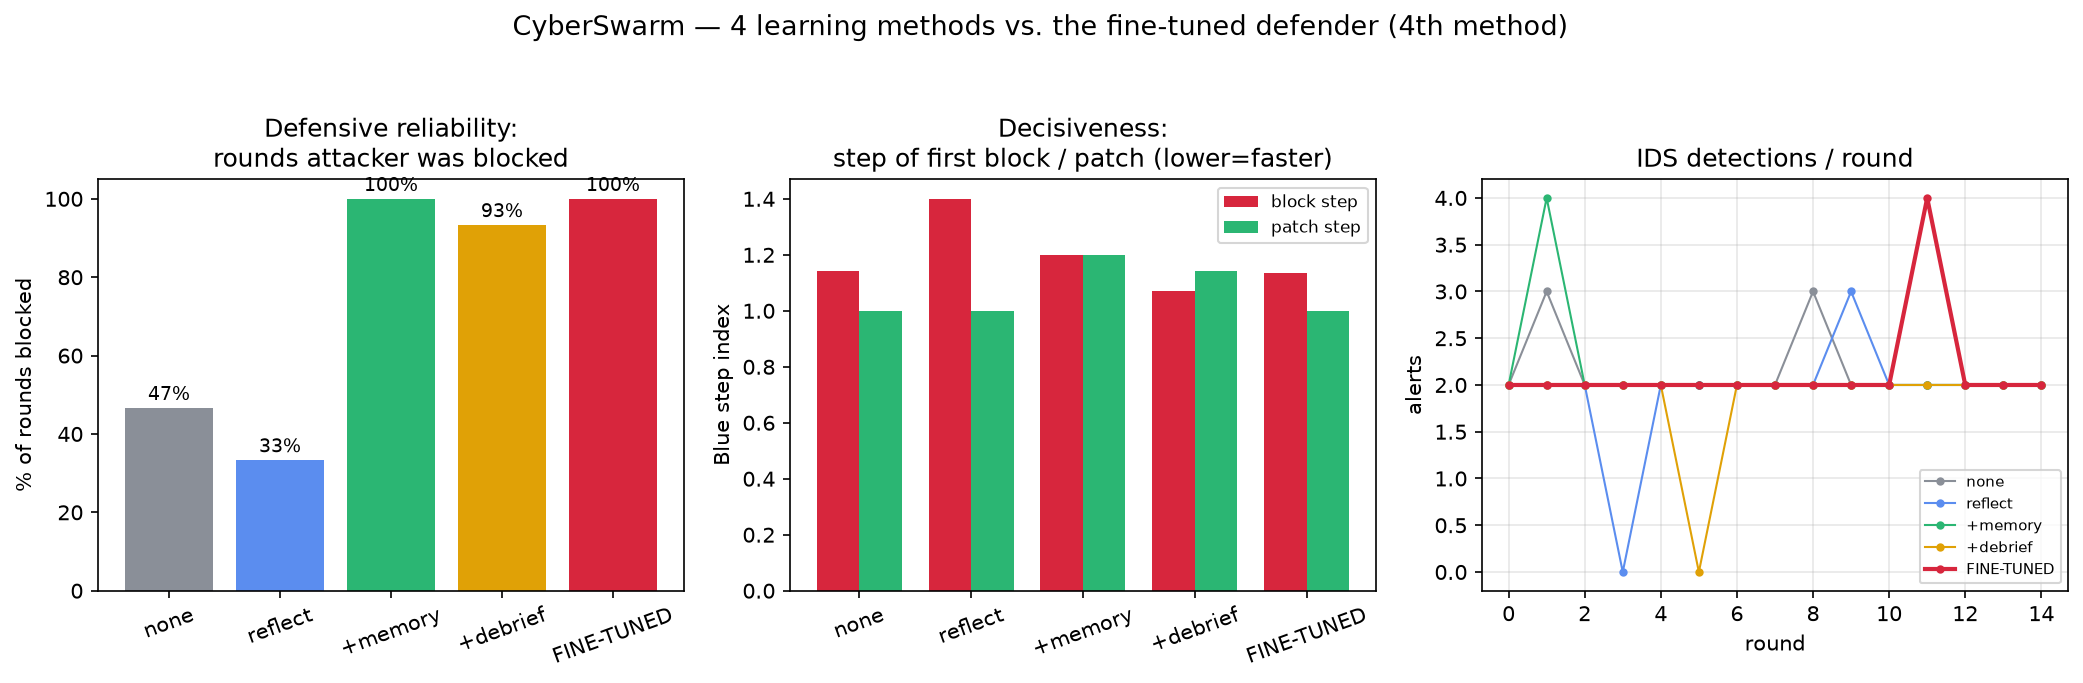
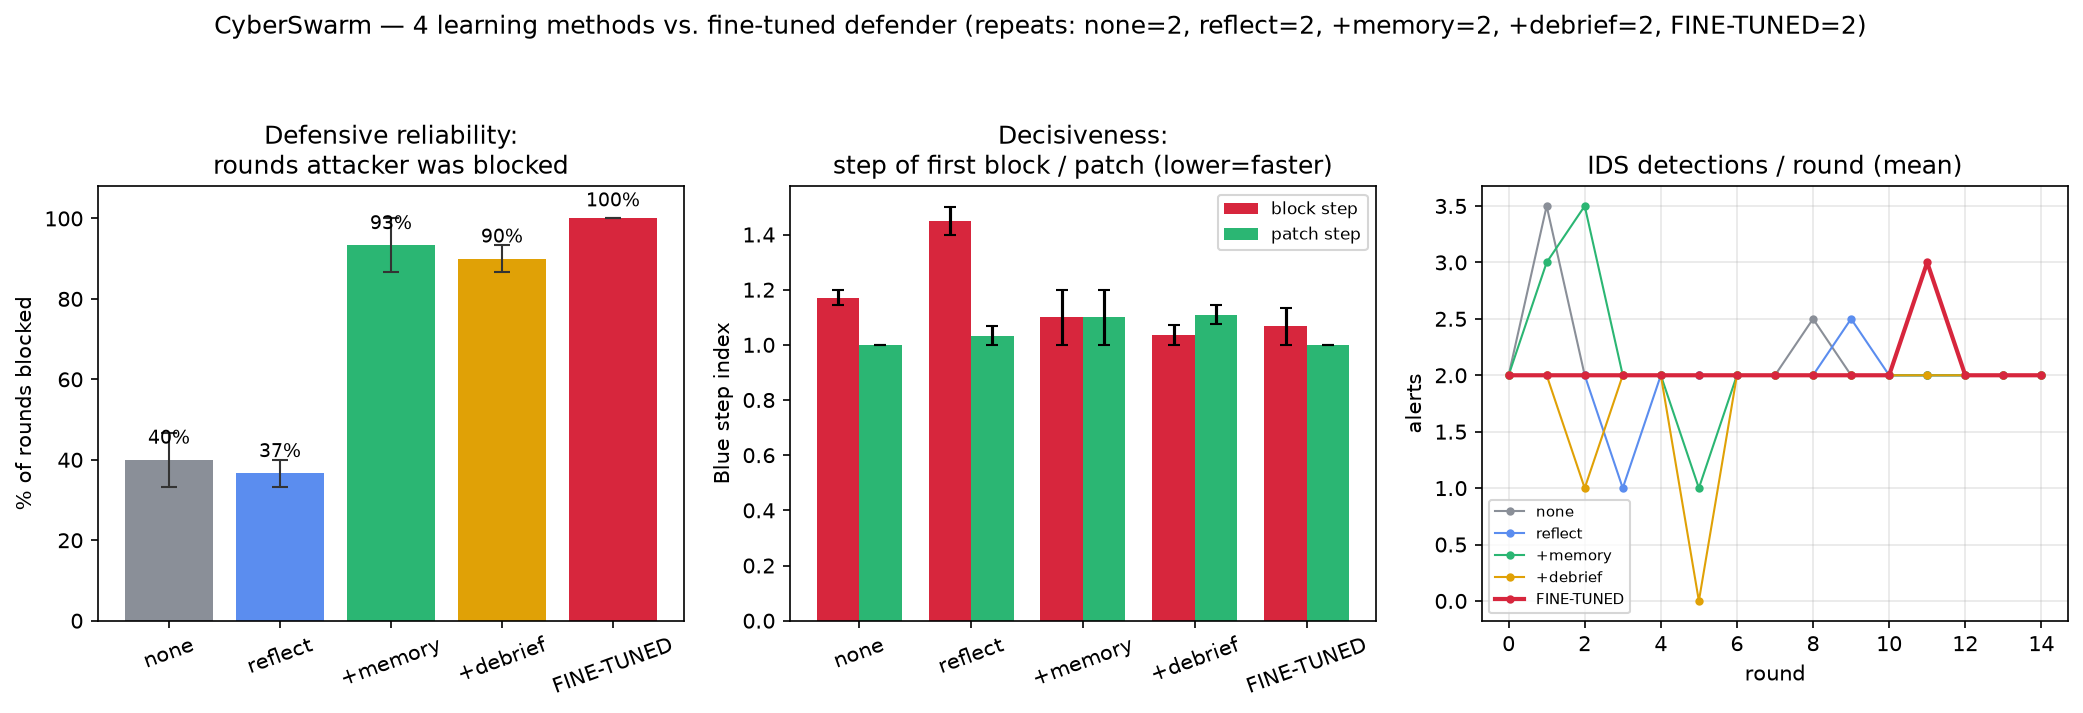
Add second repeat (n=2): fine-tuned defender is the most reliable
- Re-ran all 5 methods a 2nd time (15 rounds each) for error bars.
- Fine-tuned defender blocks 100% of rounds in BOTH repeats (zero variance);
  prompt methods wobble (+memory 100->87%, +debrief 93->87%), baselines 37-40%.
- ft_comparison.py now aggregates repeats with range error bars.
- RESULTS.md table + takeaways updated to the n=2 numbers (150 rounds total,
  still zero false positives).

diff --git a/analysis/ft_comparison.py b/analysis/ft_comparison.py
@@ -1,24 +1,27 @@
 """ft_comparison.py — the headline figure + table for the report.
 
 Compares the 4 prompt-based learning methods against the 4th method (QLoRA
-fine-tuning). The coarse IDS-alert scores saturate (single-vuln ceiling), so the
-discriminating metric is DEFENSIVE COMPETENCE: in how many rounds did Blue actually
-block the attacker, and how decisively (which step it blocked / patched on).
+fine-tuning), aggregating over all repeats found (<method>_r1, _r2, ...).
 
-    python ft_comparison.py            # reads ../runs/<method>_r1
+    python ft_comparison.py
 
-Finding: fine-tuning reaches top-tier block reliability (100%) with NO runtime
+The coarse IDS-alert scores saturate (single-vuln ceiling), so the discriminating
+metric is DEFENSIVE COMPETENCE: in how many rounds did Blue actually block the
+attacker, and how decisively (which step it blocked / patched on). Error bars span
+the repeats.
+
+Finding: fine-tuning reaches top-tier block reliability with NO runtime
 reflection/memory/debrief — the defensive policy is internalised in the weights.
 """
 import json, glob, os
+import numpy as np
 import matplotlib
 matplotlib.use("Agg")
 import matplotlib.pyplot as plt
 
-ORDER = ["no_learning_r1", "reflect_r1", "reflect_mem_r1", "baseline_r1", "ft_r1"]
-LABEL = {"no_learning_r1": "none", "reflect_r1": "reflect",
-         "reflect_mem_r1": "+memory", "baseline_r1": "+debrief",
-         "ft_r1": "FINE-TUNED"}
+METHODS = [("no_learning", "none"), ("reflect", "reflect"),
+           ("reflect_mem", "+memory"), ("baseline", "+debrief"),
+           ("ft", "FINE-TUNED")]
 COLOR = {"none": "#8a8f98", "reflect": "#5b8def", "+memory": "#2bb673",
          "+debrief": "#e0a106", "FINE-TUNED": "#d7263d"}
 
@@ -35,81 +38,103 @@ def first_step(msgs, tool):
     return None
 
 
-def collect(run):
-    rounds = sorted(glob.glob(f"../runs/{run}/round_*/scores.json"))
-    det, solved, blue, red, legit = [], [], [], [], 0
-    for p in rounds:
-        x = json.load(open(p))
-        det.append(x["detections"]); solved.append(x["challenges_solved_round"])
-        blue.append(x["blue_score"]); red.append(x["red_score"])
-        legit += x["legit_blocked"]
-    blocked = 0; bsteps = []; psteps = []; calls = []
-    for p in sorted(glob.glob(f"../runs/{run}/round_*/blue_messages.json")):
+def run_stats(run_dir):
+    """Per-repeat stats for one runs/<method>_rN dir."""
+    rounds = sorted(glob.glob(f"{run_dir}/round_*/scores.json"))
+    if not rounds:
+        return None
+    det = [json.load(open(p))["detections"] for p in rounds]
+    blocked = 0; bsteps = []; psteps = []
+    for p in sorted(glob.glob(f"{run_dir}/round_*/blue_messages.json")):
         msgs = json.load(open(p, encoding="utf-8"))
-        calls.append(sum(len(m.get("tool_calls") or []) for m in msgs
-                         if m.get("role") == "assistant"))
         b = first_step(msgs, "block_ip"); pt = first_step(msgs, "patch_sqli")
         if b is not None:
             blocked += 1; bsteps.append(b)
         if pt is not None:
             psteps.append(pt)
-    n = len(rounds) or 1
-    mean = lambda xs: sum(xs) / len(xs) if xs else 0.0
-    return dict(n=n, det=det, solved=solved, mean_blue=mean(blue), mean_red=mean(red),
-                legit=legit, blocked=blocked, block_rate=100.0 * blocked / n,
+    n = len(rounds)
+    mean = lambda xs: float(np.mean(xs)) if xs else float("nan")
+    return dict(n=n, det=det, block_rate=100.0 * blocked / n,
                 avg_block_step=mean(bsteps), avg_patch_step=mean(psteps),
-                avg_calls=mean(calls))
+                mean_det=mean(det))
+
+
+def agg(cfg):
+    reps = [run_stats(d) for d in sorted(glob.glob(f"../runs/{cfg}_r*"))]
+    reps = [r for r in reps if r]
+    return reps
+
+
+def ms(vals):
+    vals = [v for v in vals if v == v]  # drop nan
+    a = np.array(vals, float)
+    return (float(a.mean()), float(a.max() - a.mean()), float(a.mean() - a.min())) if len(a) else (0, 0, 0)
 
 
 def main():
-    data = {LABEL[r]: collect(r) for r in ORDER if os.path.isdir(f"../runs/{r}")}
-    names = [LABEL[r] for r in ORDER if LABEL[r] in data]
+    data = {}
+    for cfg, lbl in METHODS:
+        reps = agg(cfg)
+        if reps:
+            data[lbl] = reps
+    names = [lbl for _, lbl in METHODS if lbl in data]
     cols = [COLOR[n] for n in names]
+    nrep = {n: len(data[n]) for n in names}
 
-    fig = plt.figure(figsize=(14, 4.6))
-    # Panel 1: block reliability (the headline)
+    fig = plt.figure(figsize=(14, 4.8))
+    x = np.arange(len(names))
+
+    # Panel 1: block reliability (headline) with range bars
     ax1 = fig.add_subplot(1, 3, 1)
-    rates = [data[n]["block_rate"] for n in names]
-    ax1.bar(names, rates, color=cols)
+    br = [ms([r["block_rate"] for r in data[n]]) for n in names]
+    means = [b[0] for b in br]
+    yerr = [[b[2] for b in br], [b[1] for b in br]]
+    ax1.bar(x, means, color=cols, yerr=yerr, capsize=4, error_kw=dict(ecolor="#333", lw=1))
     ax1.set_title("Defensive reliability:\nrounds attacker was blocked")
-    ax1.set_ylabel("% of rounds blocked"); ax1.set_ylim(0, 105)
-    for i, v in enumerate(rates):
-        ax1.text(i, v + 2, f"{v:.0f}%", ha="center", fontsize=9)
-    ax1.tick_params(axis="x", rotation=20)
+    ax1.set_ylabel("% of rounds blocked"); ax1.set_ylim(0, 108)
+    for i, v in enumerate(means):
+        ax1.text(i, min(v + 4, 103), f"{v:.0f}%", ha="center", fontsize=9)
+    ax1.set_xticks(x); ax1.set_xticklabels(names, rotation=20)
 
-    # Panel 2: decisiveness (lower = faster)
+    # Panel 2: decisiveness
     ax2 = fig.add_subplot(1, 3, 2)
-    import numpy as np
-    x = np.arange(len(names)); w = 0.38
-    ax2.bar(x - w / 2, [data[n]["avg_block_step"] for n in names], w, label="block step", color="#d7263d")
-    ax2.bar(x + w / 2, [data[n]["avg_patch_step"] for n in names], w, label="patch step", color="#2bb673")
+    w = 0.38
+    blk = [ms([r["avg_block_step"] for r in data[n]]) for n in names]
+    pat = [ms([r["avg_patch_step"] for r in data[n]]) for n in names]
+    ax2.bar(x - w / 2, [b[0] for b in blk], w, yerr=[[b[2] for b in blk], [b[1] for b in blk]],
+            capsize=3, label="block step", color="#d7263d")
+    ax2.bar(x + w / 2, [p[0] for p in pat], w, yerr=[[p[2] for p in pat], [p[1] for p in pat]],
+            capsize=3, label="patch step", color="#2bb673")
     ax2.set_title("Decisiveness:\nstep of first block / patch (lower=faster)")
     ax2.set_ylabel("Blue step index"); ax2.set_xticks(x); ax2.set_xticklabels(names, rotation=20)
     ax2.legend(fontsize=8)
 
-    # Panel 3: per-round detections curve
+    # Panel 3: per-round detections (mean across repeats)
     ax3 = fig.add_subplot(1, 3, 3)
     for n in names:
-        ax3.plot(range(len(data[n]["det"])), data[n]["det"], marker="o", ms=3,
-                 label=n, color=COLOR[n], lw=2 if n == "FINE-TUNED" else 1)
-    ax3.set_title("IDS detections / round"); ax3.set_xlabel("round")
+        mats = np.array([r["det"] for r in data[n]])
+        ax3.plot(range(mats.shape[1]), mats.mean(0), marker="o", ms=3, label=n,
+                 color=COLOR[n], lw=2 if n == "FINE-TUNED" else 1)
+    ax3.set_title("IDS detections / round (mean)"); ax3.set_xlabel("round")
     ax3.set_ylabel("alerts"); ax3.legend(fontsize=7); ax3.grid(True, alpha=0.3)
 
-    fig.suptitle("CyberSwarm — 4 learning methods vs. the fine-tuned defender (4th method)",
-                 fontsize=13)
-    fig.tight_layout(rect=[0, 0, 1, 0.94])
+    reps_note = ", ".join(f"{n}={nrep[n]}" for n in names)
+    fig.suptitle(f"CyberSwarm — 4 learning methods vs. fine-tuned defender (repeats: {reps_note})",
+                 fontsize=12)
+    fig.tight_layout(rect=[0, 0, 1, 0.93])
     out = "ft_comparison.png"
     fig.savefig(out, dpi=150, bbox_inches="tight")
     print(f"wrote {out}\n")
 
-    # Table
-    hdr = f"{'method':<12}{'block%':>8}{'blocked':>9}{'blk_step':>9}{'patch_step':>11}{'mean_det':>9}{'mean_blue':>10}{'legit_blk':>10}"
+    hdr = f"{'method':<12}{'repeats':>8}{'block% (mean)':>15}{'block_step':>12}{'patch_step':>12}{'mean_det':>10}"
     print(hdr); print("-" * len(hdr))
     for n in names:
-        d = data[n]
-        print(f"{n:<12}{d['block_rate']:>7.0f}%{str(d['blocked'])+'/'+str(d['n']):>9}"
-              f"{d['avg_block_step']:>9.2f}{d['avg_patch_step']:>11.2f}"
-              f"{sum(d['det'])/d['n']:>9.2f}{d['mean_blue']:>10.2f}{d['legit']:>10}")
+        br_m = ms([r["block_rate"] for r in data[n]])[0]
+        bs_m = ms([r["avg_block_step"] for r in data[n]])[0]
+        ps_m = ms([r["avg_patch_step"] for r in data[n]])[0]
+        dt_m = ms([r["mean_det"] for r in data[n]])[0]
+        rates = "/".join(f"{r['block_rate']:.0f}" for r in data[n])
+        print(f"{n:<12}{nrep[n]:>8}{br_m:>10.0f}% ({rates}){bs_m:>12.2f}{ps_m:>12.2f}{dt_m:>10.2f}")
 
 
 if __name__ == "__main__":

diff --git a/RESULTS.md b/RESULTS.md
@@ -6,9 +6,9 @@ compare four *learning methods* for the agents and then introduce a fifth, quali
 different one: **fine-tuning the model weights** (QLoRA behavioural cloning) on the
 successful trajectories the other methods produced.
 
-All runs: 15 rounds, Qwen2.5-14B-Instruct, seed 42, same lab, Juice Shop target
-(107 challenges, ground-truth scoreboard). Each round is soft-reset (firewall + target
-restarted) so rounds are independent and comparable.
+All runs: 15 rounds × 2 repeats per method, Qwen2.5-14B-Instruct, seed 42, same lab,
+Juice Shop target (107 challenges, ground-truth scoreboard). Each round is soft-reset
+(firewall + target restarted) so rounds are independent and comparable.
 
 ## The five methods
 
@@ -32,25 +32,29 @@ round 1, so every method detects ~2 alerts/round and `blue_score` ≈ 2. The met
 discriminates is **defensive competence**: in how many rounds did Blue actually block the
 attacker, and how decisively.
 
+Two repeats per method (`_r1`, `_r2`); the "blocked" column shows the mean with the
+per-repeat values in parentheses.
+
 | method | blocked the attacker | first block (step) | first patch (step) | legit users blocked |
 |--------|---------------------|--------------------|--------------------|---------------------|
-| none | 7/15 (47%) | 1.14 | 1.00 | 0 |
-| reflect | 5/15 (33%) | 1.40 | 1.00 | 0 |
-| +memory | 15/15 (100%) | 1.20 | 1.20 | 0 |
-| +debrief | 14/15 (93%) | 1.07 | 1.14 | 0 |
-| **FINE-TUNED** | **15/15 (100%)** | **1.13** | **1.00** | **0** |
+| none | 40% (47/33) | 1.17 | 1.00 | 0 |
+| reflect | 37% (33/40) | 1.45 | 1.03 | 0 |
+| +memory | 93% (100/87) | 1.10 | 1.10 | 0 |
+| +debrief | 90% (93/87) | 1.04 | 1.11 | 0 |
+| **FINE-TUNED** | **100% (100/100)** | **1.07** | **1.00** | **0** |
 
 **Takeaways**
 
-1. **Fine-tuning reaches top-tier defensive reliability (100% of rounds blocked) with
-   zero runtime learning machinery.** It matches the best prompt-based method (`+memory`)
-   while using no reflection/memory/debrief and no extra context — the policy is
-   internalised in the weights.
+1. **Fine-tuning is the most *reliable* defender — 100% of rounds blocked in both
+   repeats, with zero variance — and uses no runtime learning machinery.** The
+   prompt-based methods are strong but wobble across repeats (`+memory` 100→87%,
+   `+debrief` 93→87%); only the fine-tuned defender is perfectly consistent, because the
+   policy is internalised in the weights (no reflection/memory/debrief, no extra context).
 2. **The fine-tuned defender is the most decisive**: it patches the vulnerability on its
-   first action (step 1.00) every round and blocks the attacker's IP by step ~1.1.
-3. **Naive reflection can hurt.** `reflect` alone (33%) is *worse* than `none` (47%) —
+   first action (step 1.00) every round and blocks the attacker's IP by step ~1.07.
+3. **Naive reflection can hurt.** `reflect` alone (37%) is *worse* than `none` (40%) —
    un-anchored reflection polluted the defender's policy. Memory/debrief recover it.
-4. **No false positives.** Across all 75 rounds Blue never blocked the legitimate user
+4. **No false positives.** Across all 150 rounds Blue never blocked the legitimate user
    (10.10.1.20), fine-tuned included — it learned to key on behaviour, not volume.
 
 See `analysis/ft_comparison.png` for the figure.
